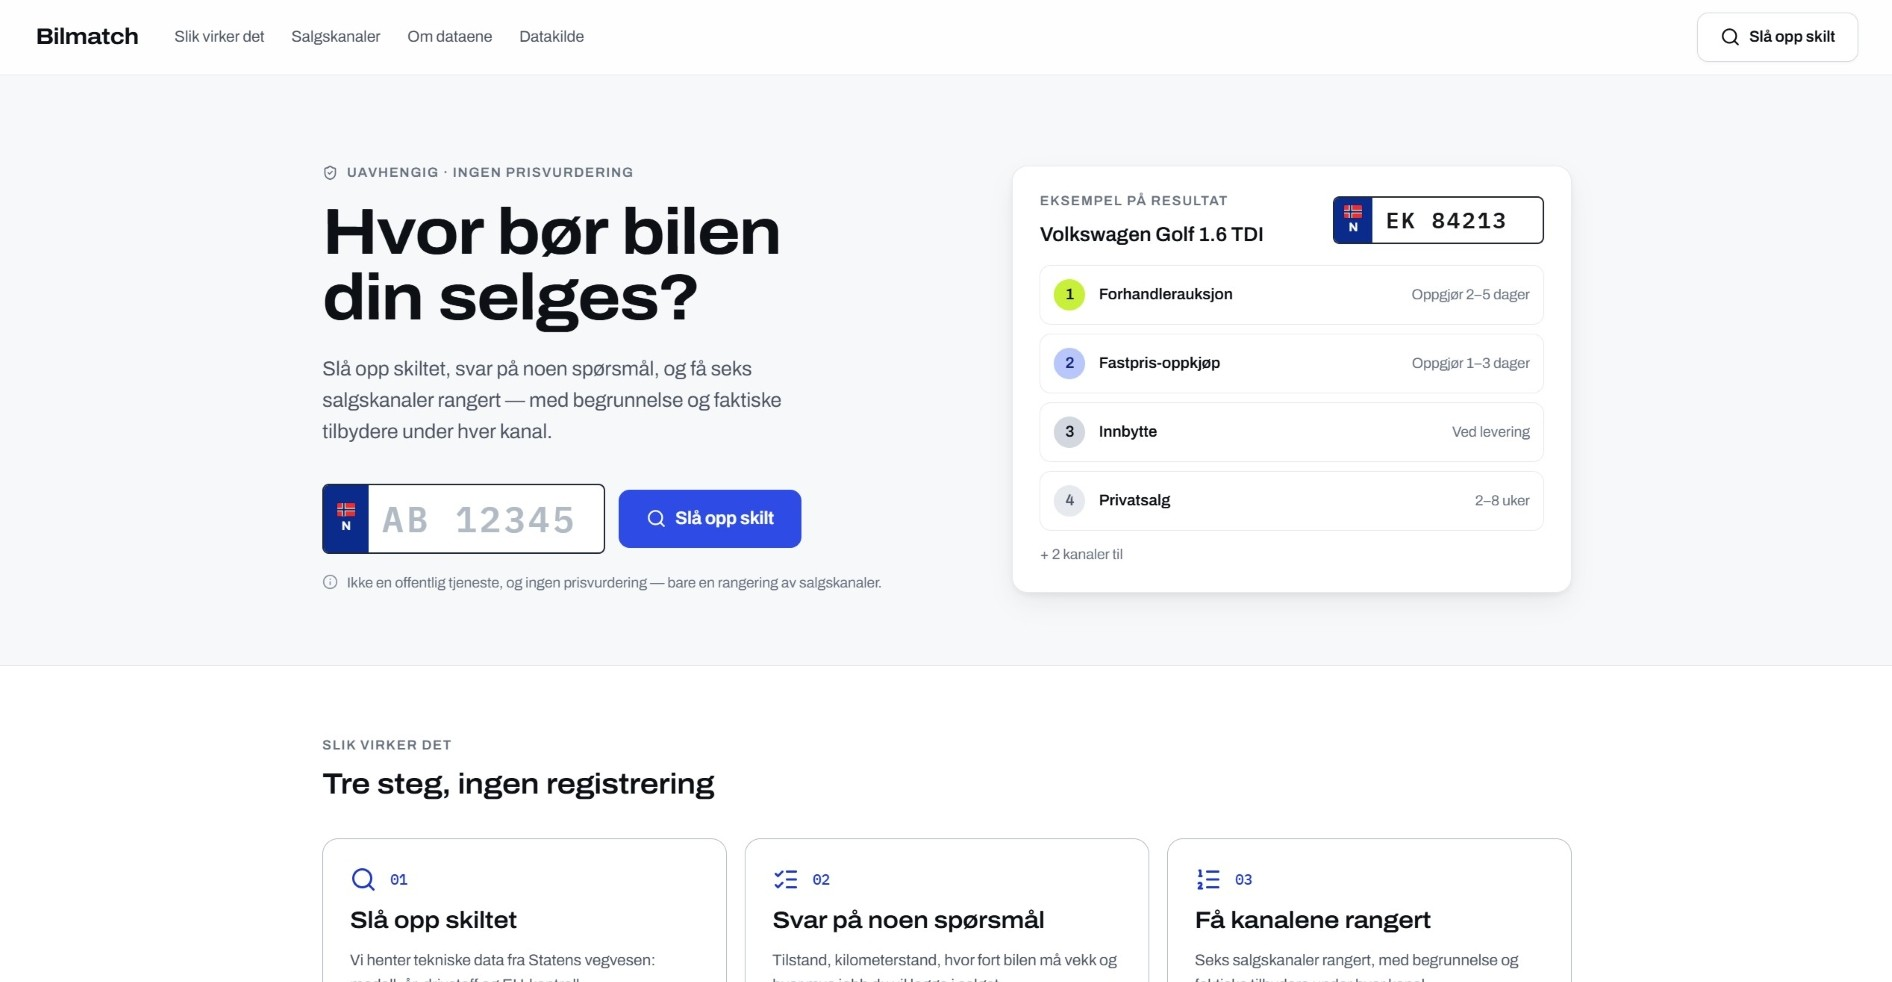
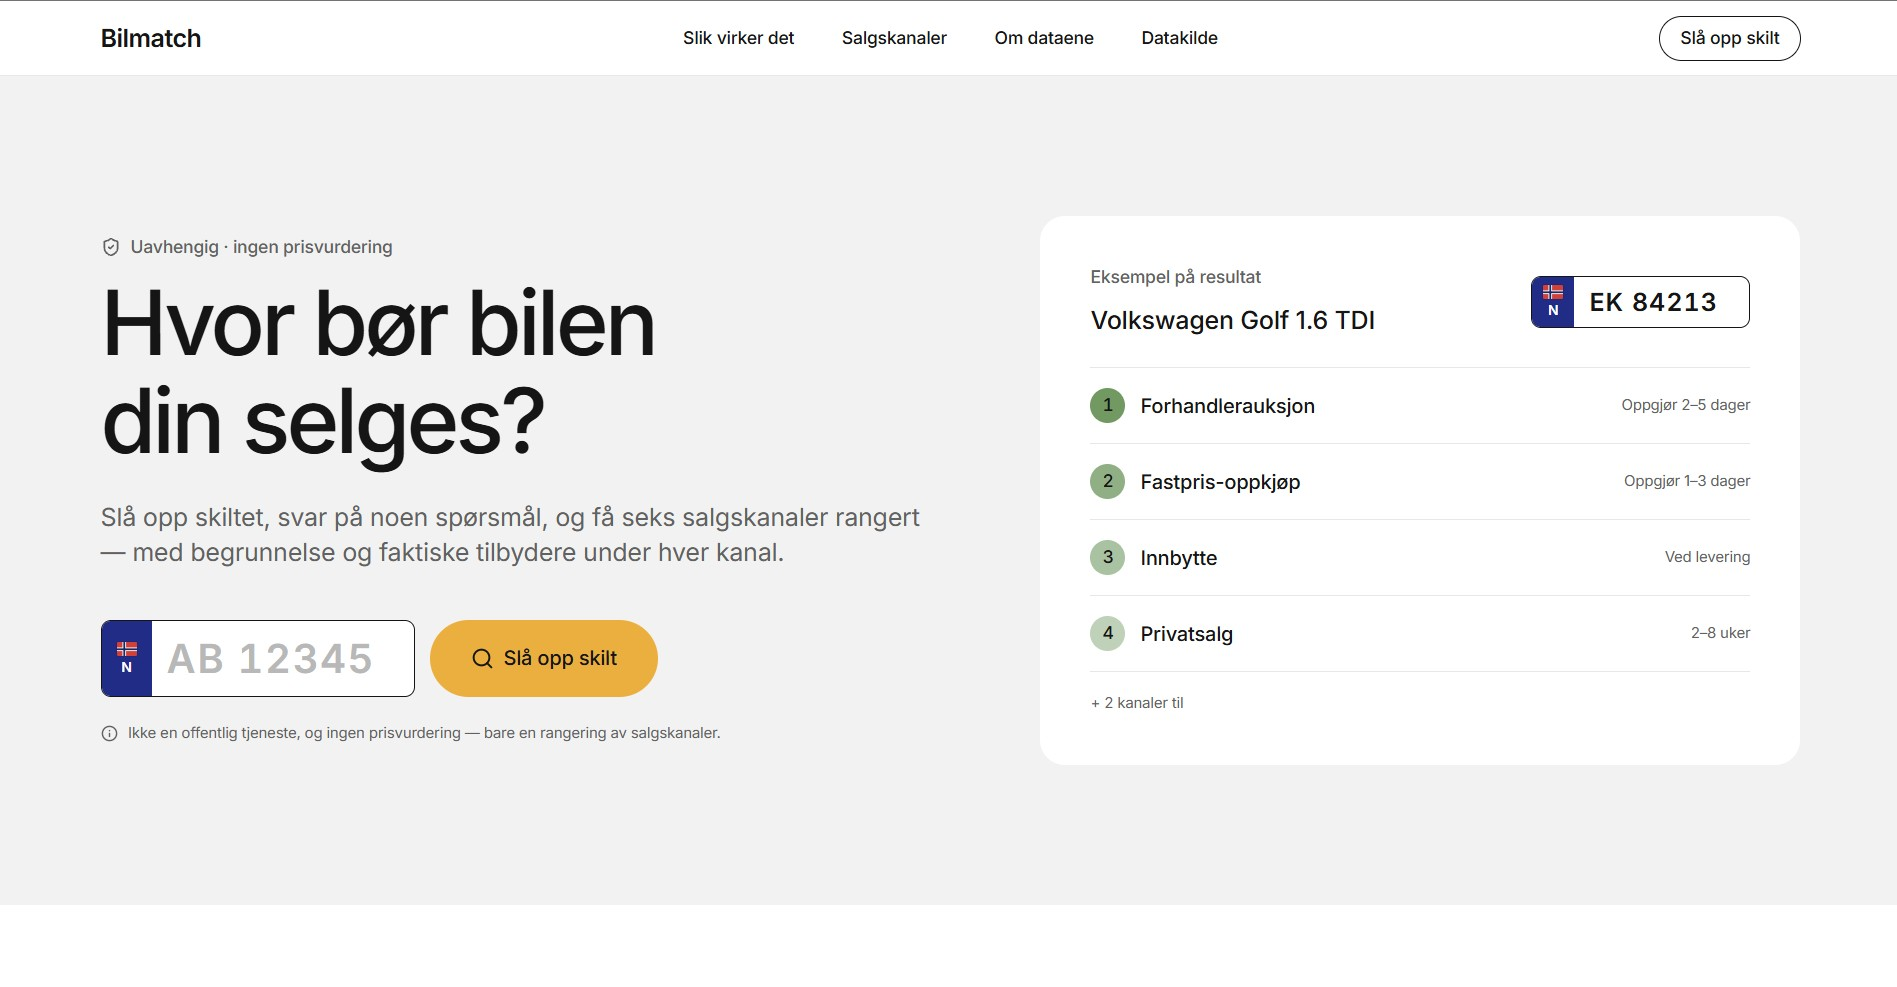
feat: added image

diff --git a/src/components/Hero.tsx b/src/components/Hero.tsx
@@ -10,7 +10,8 @@ export default function Hero() {
         fetch("/api/commits")
             .then((r) => (r.ok ? r.json() : null))
             .then((d) => d?.total && setCommits(d.total))
-            .catch(() => {});
+            .catch(() => {
+            });
     }, []);
 
     // Count up from 0 so the number reads as live data; skipped for reduced motion
@@ -21,7 +22,7 @@ export default function Hero() {
         const start = performance.now();
         let frame = 0;
         const tick = (now: number) => {
-            const p = Math.min((now - start) / 4500, 1);
+            const p = Math.min((now - start) / 4000, 1);
             setShown(Math.round(commits * (1 - (1 - p) ** 3)));
             if (p < 1) frame = requestAnimationFrame(tick);
         };
@@ -73,8 +74,9 @@ export default function Hero() {
                     </CodeLine>
                     {commits !== null && (
                         <CodeLine n={4}>
-                            &nbsp;&nbsp;<Prop>commits</Prop>: <span className="tabular-nums text-[#F59E6C]">{shown.toLocaleString("nb-NO")}</span>,{" "}
-                            <span className="text-[#4A5560]">{"// live via GitHub API"}</span>
+                            &nbsp;&nbsp;<Prop>commits</Prop>: <span
+                            className="tabular-nums text-[#F59E6C]">{shown.toLocaleString("nb-NO")}</span>,{" "}
+                            <span className="text-[#4A5560]"></span>
                         </CodeLine>
                     )}
                     <CodeLine n={commits !== null ? 5 : 4}>{"};"}</CodeLine>
